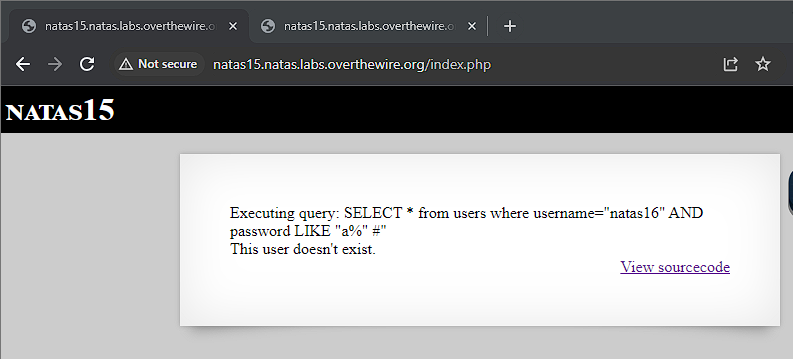
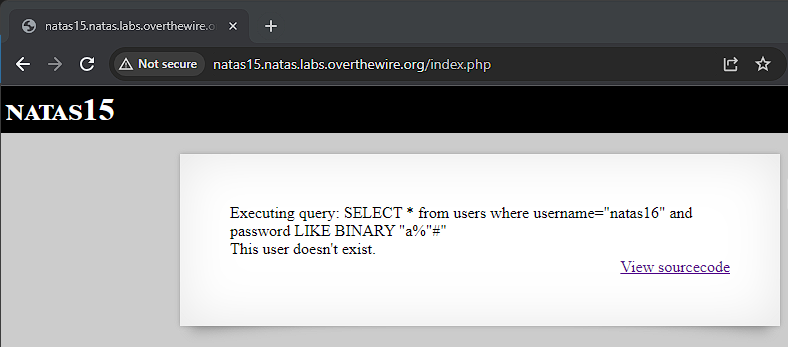
Added links, gitignore and requirements

diff --git a/natas15/natas15.py b/natas15/natas15.py
@@ -8,7 +8,7 @@ characters = ascii_letters + digits
 password = ''
 while len(password) < 32:
     for char in characters:
-        payload = {'username': f'natas16" AND password LIKE "{password + char}%"#'}
+        payload = {'username': f'natas16" AND password LIKE BINARY "{password + char}%"#'}
         r = requests.post(URL, data=payload)
         if 'This user exists.' in r.text:
             password += char

diff --git a/natas15/natas15.md b/natas15/natas15.md
@@ -1,5 +1,7 @@
 # Natas 15
 
+Link: http://natas15.natas.labs.overthewire.org/
+
 ![Alt text](../images/natas15/defaultPage.png)
 
 Viewing the page we see that this time there is only a username this time. Playing around with it we determine that natas16 is a valid username.
@@ -12,7 +14,7 @@ However the same vulnerabilities as natas14 exists, a SQL injection is possible.
 
 Referencing [this](https://www.exploit-db.com/docs/english/17397-blind-sql-injection-with-regular-expressions-attack.pdf) article's section on Exporting a value with Regexp attack (MSSQL) on page 7, we can construct a query that will perform something similar.
 
-The username that we add is `natas16" AND password LIKE "a%"#` where a is the character that we want to search for in the password. The `LIKE` operator is used in a `WHERE` clause to search for a pattern in a column. The wildcard `%` is used to represent zero, one or multiple characters. Thus the query being run will tell use whether or not a natas16 is a username `AND` if there is a password that starts with the letter a. Intercepting the request we see the following query being exectued.
+The username that we add is `natas16" AND password LIKE BINARY "a%"#` where a is the character that we want to search for in the password. The `LIKE` operator is used in a `WHERE` clause to search for a pattern in a column. The wildcard `%` is used to represent zero, one or multiple characters. The `BINARY` function is necessary to ensure case-sensitive comparison. MySQL performs case-insensitive comparisons on its values by default. Thus the query being run will tell use whether or not a natas16 is a username `AND` if there is a password that starts with the letter a. Intercepting the request we see the following query being exectued.
 
 ![Alt text](../images/natas15/debug.png)
 

diff --git a/natas13/natas13.md b/natas13/natas13.md
@@ -1,4 +1,7 @@
 # Natas 13
+
+Link: http://natas13.natas.labs.overthewire.org/
+
 ![Alt text](../images/natas13/defaultPage.png)
 
 Similar to natas12 we see a form where we can submit a jpg file of up to 1KB. However this time it claims that there are additional checks on whether or not they are image files. Let's view the source code to see these checks.

diff --git a/natas07/natas07.md b/natas07/natas07.md
@@ -1,5 +1,7 @@
 # Natas 7
 
+Link: http://natas7.natas.labs.overthewire.org/
+
 ![Default web page appearance.](../images/natas7/defaultPage.png)
 
 Viewing the page, we see that it contains links to a Home page and an About page. Clicking on either links takes us to their respective pages. We notice that the url loads using the page parameter in the url.

diff --git a/natas11/natas11.md b/natas11/natas11.md
@@ -1,5 +1,7 @@
 # Natas 11
 
+Link: http://natas11.natas.labs.overthewire.org/
+
 ![Default page appearance](../images/natas11/defaultPage.png)
 
 Viewing the page we see that there is a search bar where we can change the colour of the background as well as a handy hint that cookies are protected with XOR encryption.

diff --git a/natas05/natas05.md b/natas05/natas05.md
@@ -1,5 +1,7 @@
 # Natas 5
 
+Link: http://natas5.natas.labs.overthewire.org/
+
 ![Default web page appearance.](../images/natas5/defaultPage.png)
 
 Opening the page we see that we are not allowed access because we are not logged in. After intercepting the request, we see that there is a loggedin cookie.

diff --git a/natas09/natas09.md b/natas09/natas09.md
@@ -1,5 +1,7 @@
 # Natas 9
 
+Link: http://natas9.natas.labs.overthewire.org/
+
 ![Default web page appearance.](../images/natas9/defaultPage.png)
 
 Viewing the page, we see that it is acting like a dictionary where we enter characters and the page will return words that contain those characters.

diff --git a/natas10/natas10.md b/natas10/natas10.md
@@ -1,5 +1,7 @@
 # Natas 10
 
+Link: http://natas10.natas.labs.overthewire.org/
+
 ![Default web page appearance.](../images/natas10/defaultPage.png)
 
 Viewing the page, we see that it is similar to the previous exercise, however this time it states that it is "filtering on certain characters".

diff --git a/natas06/natas06.md b/natas06/natas06.md
@@ -1,5 +1,7 @@
 # Natas 6
 
+Link: http://natas6.natas.labs.overthewire.org/
+
 ![Default web page appearance.](../images/natas6/defaultPage.png)
 
 Opening the page we see that we have a secret that we need to input as well as a link to view the source code.

diff --git a/natas14/natas14.md b/natas14/natas14.md
@@ -1,5 +1,7 @@
 # Natas 14
 
+Link: http://natas14.natas.labs.overthewire.org/
+
 ![Alt text](../images/natas14/defaultPage.png)
 
 After viewing and playing around with the page, we see what appears to be a standard login page. Let's see the source code.

diff --git a/natas08/natas08.md b/natas08/natas08.md
@@ -1,5 +1,7 @@
 # Natas 8
 
+Link: http://natas8.natas.labs.overthewire.org/
+
 ![Default web page appearance.](../images/natas8/defaultPage.png)
 
 Viewing the page, we see once again that it is asking for a secret and a link to view the source code.

diff --git a/natas12/natas12.md b/natas12/natas12.md
@@ -1,4 +1,7 @@
 # Natas 12
+
+Link: http://natas12.natas.labs.overthewire.org/
+
 ![Alt text](../images/natas12/defaultPage.png)
 
 We see a form where we can submit a jpg file of up to 1KB.
